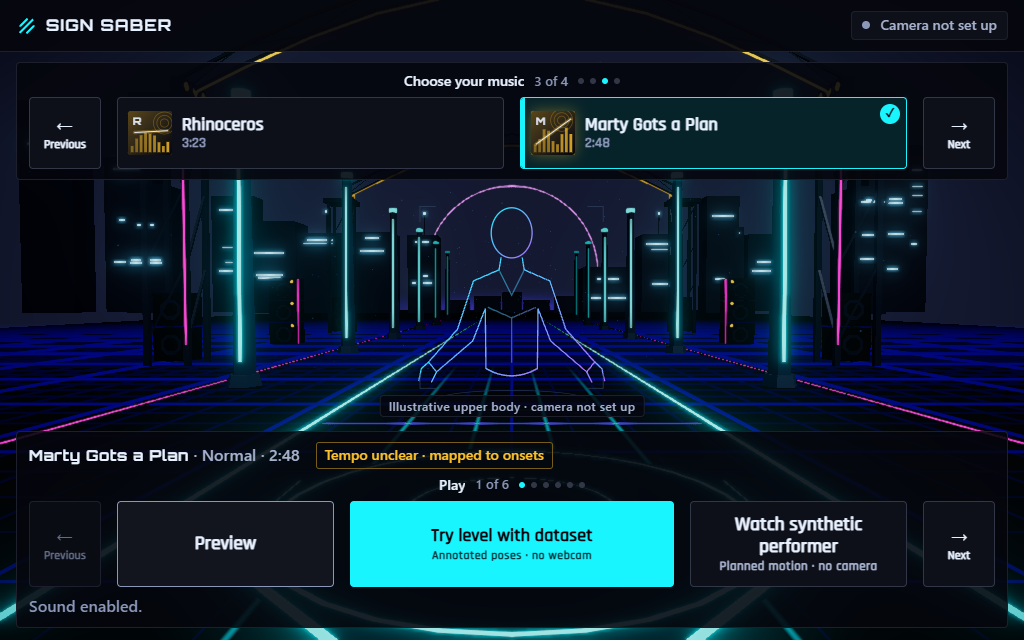
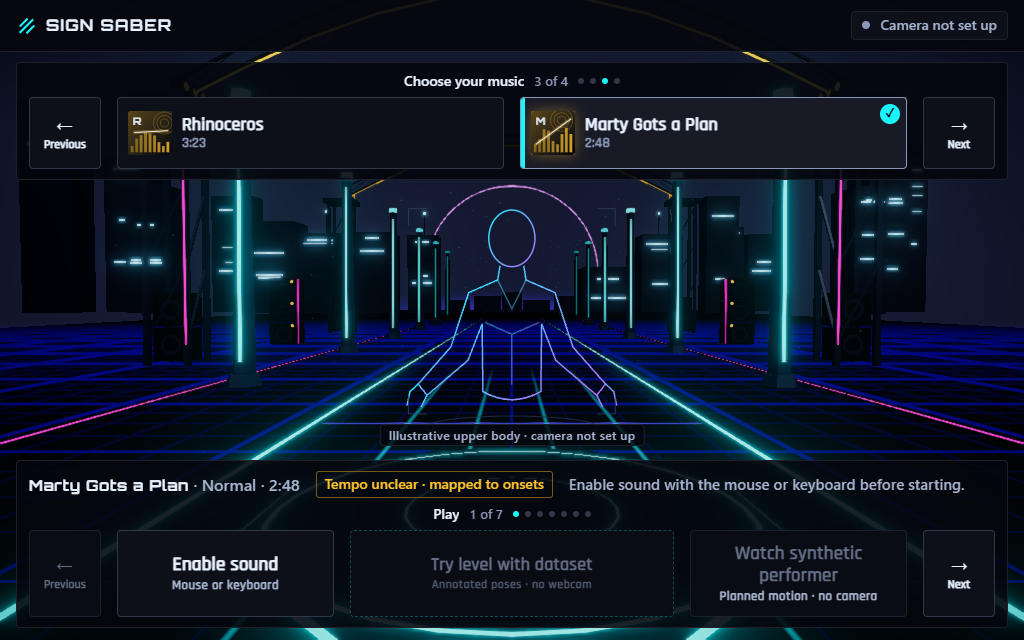
docs(music): record latest main integration checks

diff --git a/CHANGELOG.md b/CHANGELOG.md
@@ -6,6 +6,14 @@ Record each meaningful project change, newest first. Update this file in the sam
 
 Implementation and historical specification work are recorded below. Automated, dataset, browser-audio and live-camera evidence are identified separately.
 
+## 2026-10-25T04:22:29+05:30 — Verify music pack against newer main
+
+- Changed: Normally integrated main 752acf3 and then 52e9c81 into the issue #2 branch after the content checkpoint, preserving their camera Settings, footer/ARIA, training and other upstream work. Refreshed the final music/credits screenshots and retained both final integration browser reports. Generator version 2 and all music-generation sources are unchanged from the final full-pack regeneration.
+- Why: Main changed before opening the PR; the extra Settings page moves the Credits navigation target, and the subsequent interface update changes the footer.
+- Validation: Full npm run check passed on code commits d49bbf7 (380 assertions) and 0ec036c (48 suites/382 assertions), including typecheck, lint and production build. Native Chrome at 1440×900 and 1024×640 booted, navigated to/selected the eighth song and traversed the updated Settings/credits pages; every exact attribution passed with zero CSP, console or external-request failures. PNG screenshots were captured explicitly after upstream changed its generic screenshot helper to JPEG. Root docs checks passed 2/2 and the link checker passed; they are rerun after this evidence update. Scoped formatting checks passed.
+- Limits: The existing favicon 404 and large-bundle warning remain explicit, separate from music acceptance. No human, webcam, musical-quality or performance proof is inferred.
+
+
 ## 2026-10-25T04:10:41+05:30 — Eight licensed full songs and 24 generated charts (issue #2)
 
 - Changed: Extended the explicit music acquisition/generation lists with Chipper Doodle v2, Funkorama, Cut and Run, Rhinoceros and Marty Gots a Plan. Added five unchanged official CC-BY 4.0 MP3s (35,593,862 bytes total), exact attribution/acquisition receipts and 15 generated maps; regenerated the entire eight-song/24-map pack with main's generator version 2 after integrating cfdcc40. Refreshed the manifest, measured metadata, credits/docs and audio/PCM/map integrity tests. Existing paging assertions now use the registered page capacity instead of assuming the entire library fits in one page; production UI is unchanged.

diff --git a/docs/evidence/2026-10-25-eight-song-library.md b/docs/evidence/2026-10-25-eight-song-library.md
@@ -24,4 +24,8 @@ After integrating the renderer/UI changes from main, [the final integration brow
 
 [A second attempt](2026-10-25-eight-song-library-favicon-failure.json) completed all desktop song/difficulty/credits checks but the driver incorrectly treated the app's existing unrelated `/favicon.ico` 404 as a music-library failure. The final attempt continues to record every HTTP failure while asserting zero failed music assets. No favicon or other unrelated product change was made. That attempt also hit a Windows lock while removing its isolated browser profile; cleanup was changed to use bounded retries.
 
+Main subsequently added a separate dataset-camera Settings page in 752acf3. A normal merge produced code commit d49bbf7c300679eea1083293dfff0a5b7365beda. Its complete npm run check passed typecheck, lint, 48 suites/380 assertions and production build. The generator sources/version and all music hashes remained unchanged. [The pager integration report](2026-10-25-eight-song-library-final-integration.json) rechecks eighth-song selection and every exact credit through the additional Settings page at both viewports; it passed with zero music/CSP/console/external-request failures.
+
+Main's later footer/ARIA and unrelated training updates in 52e9c81 were preserved by another normal merge, producing tested code commit 0ec036c0474acbc7983038d239fb3e881fad72b4. Its full npm run check passed typecheck, lint, 48 suites/382 assertions and production build. [The current-head browser report](2026-10-25-eight-song-library-verified-head.json) repeats the eighth-song selection and exact eight-credit navigation at both requested viewports with zero CSP, console or external-request failures. The linked PNG screenshots were refreshed and inspected from this code commit. Subsequent evidence-only commits do not change the tested application.
+
 These checks do not establish human musical quality, comfort, webcam recognition, live gesture play, frame-rate or release readiness.

diff --git a/AI_USAGE.md b/AI_USAGE.md
@@ -6,7 +6,7 @@ The development workflow also occasionally includes collaboration with **Devin**
 
 ## 2026-10-25 — Eight-song licensed library (issue #2)
 
-- Codex verified the official CC-BY 4.0 acquisition templates, packaged five unchanged full songs with source/hash receipts, regenerated all 24 maps using the current main generator, and extended integrity, gapless, loader and paging assertions. Actual local-browser selection/credits outcomes are recorded separately in the issue's evidence; no music-quality or live-camera proof is inferred.
+- Codex verified the official CC-BY 4.0 acquisition templates, packaged five unchanged full songs with source/hash receipts, regenerated all 24 maps using the current main generator, and extended integrity, gapless, loader and paging assertions. It preserved later main updates with normal integrations and rechecked the affected Credits paging. Actual local-browser selection/credits outcomes are recorded separately in the issue's evidence; no music-quality or live-camera proof is inferred.
 
 ## 2026-10-25 — Fixed-tier integration and requested handoff
 
